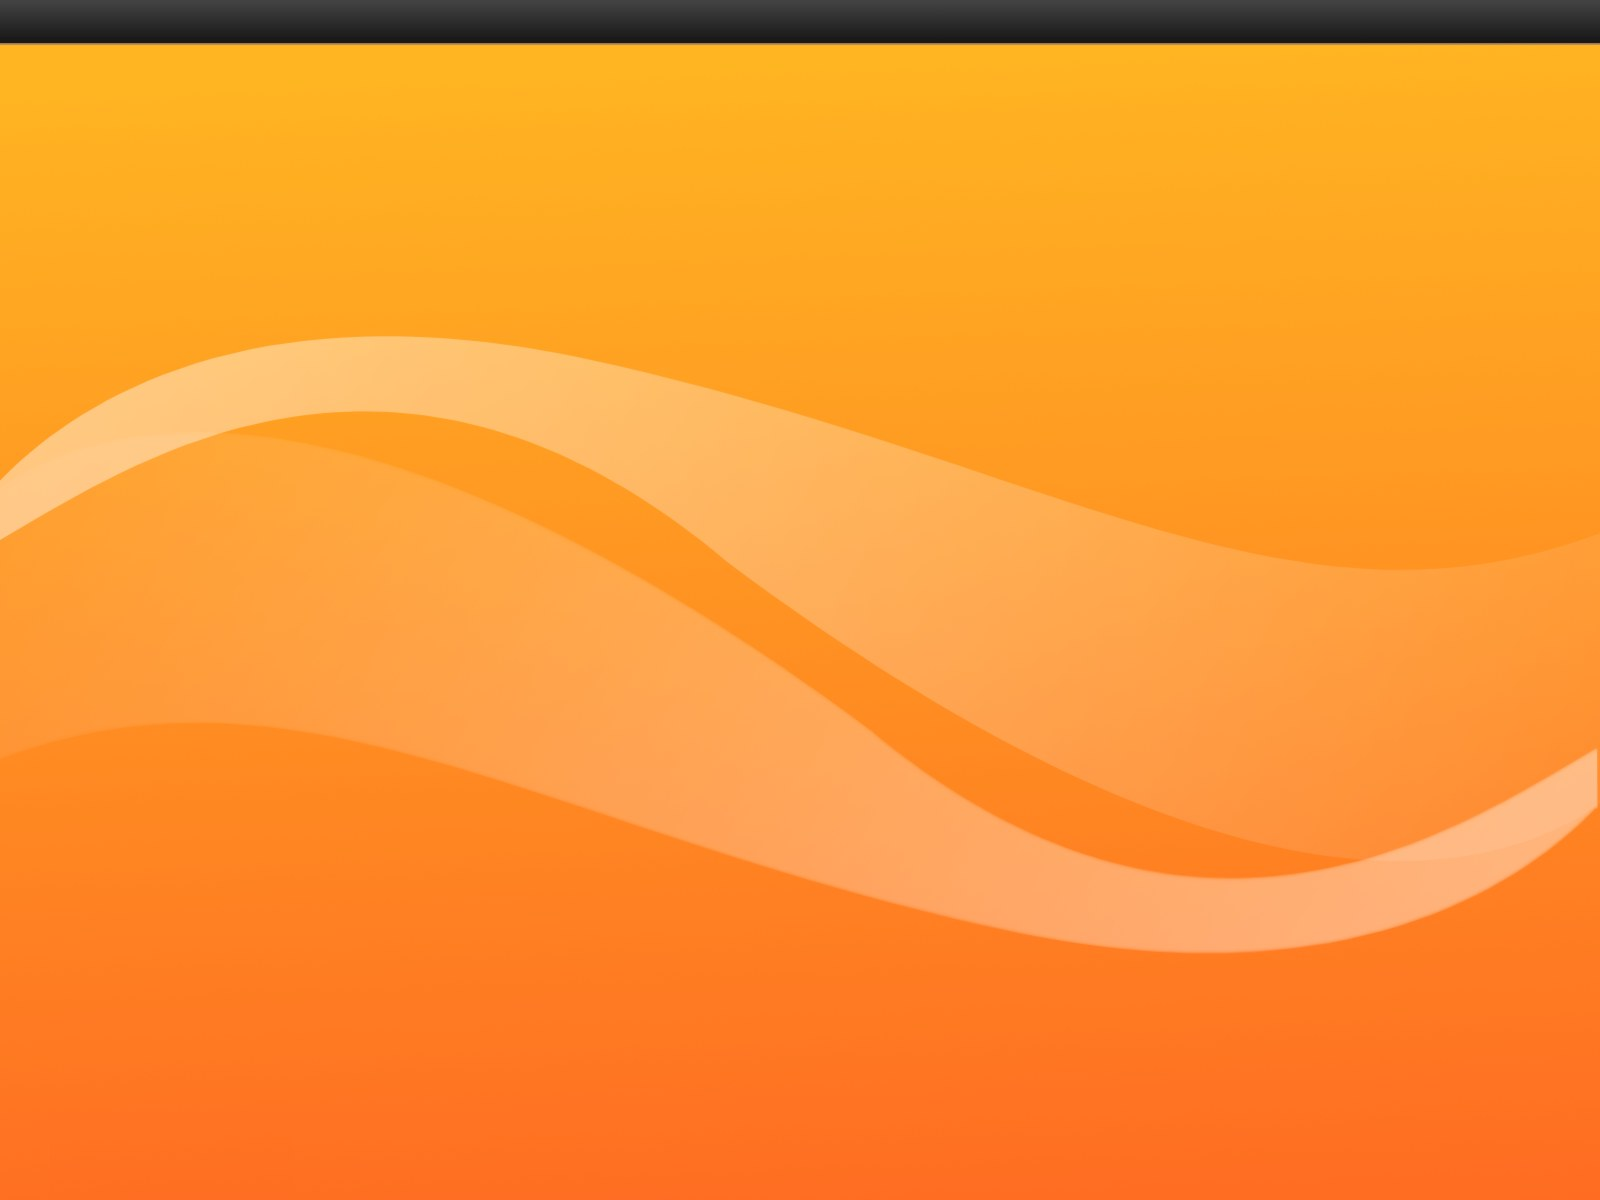
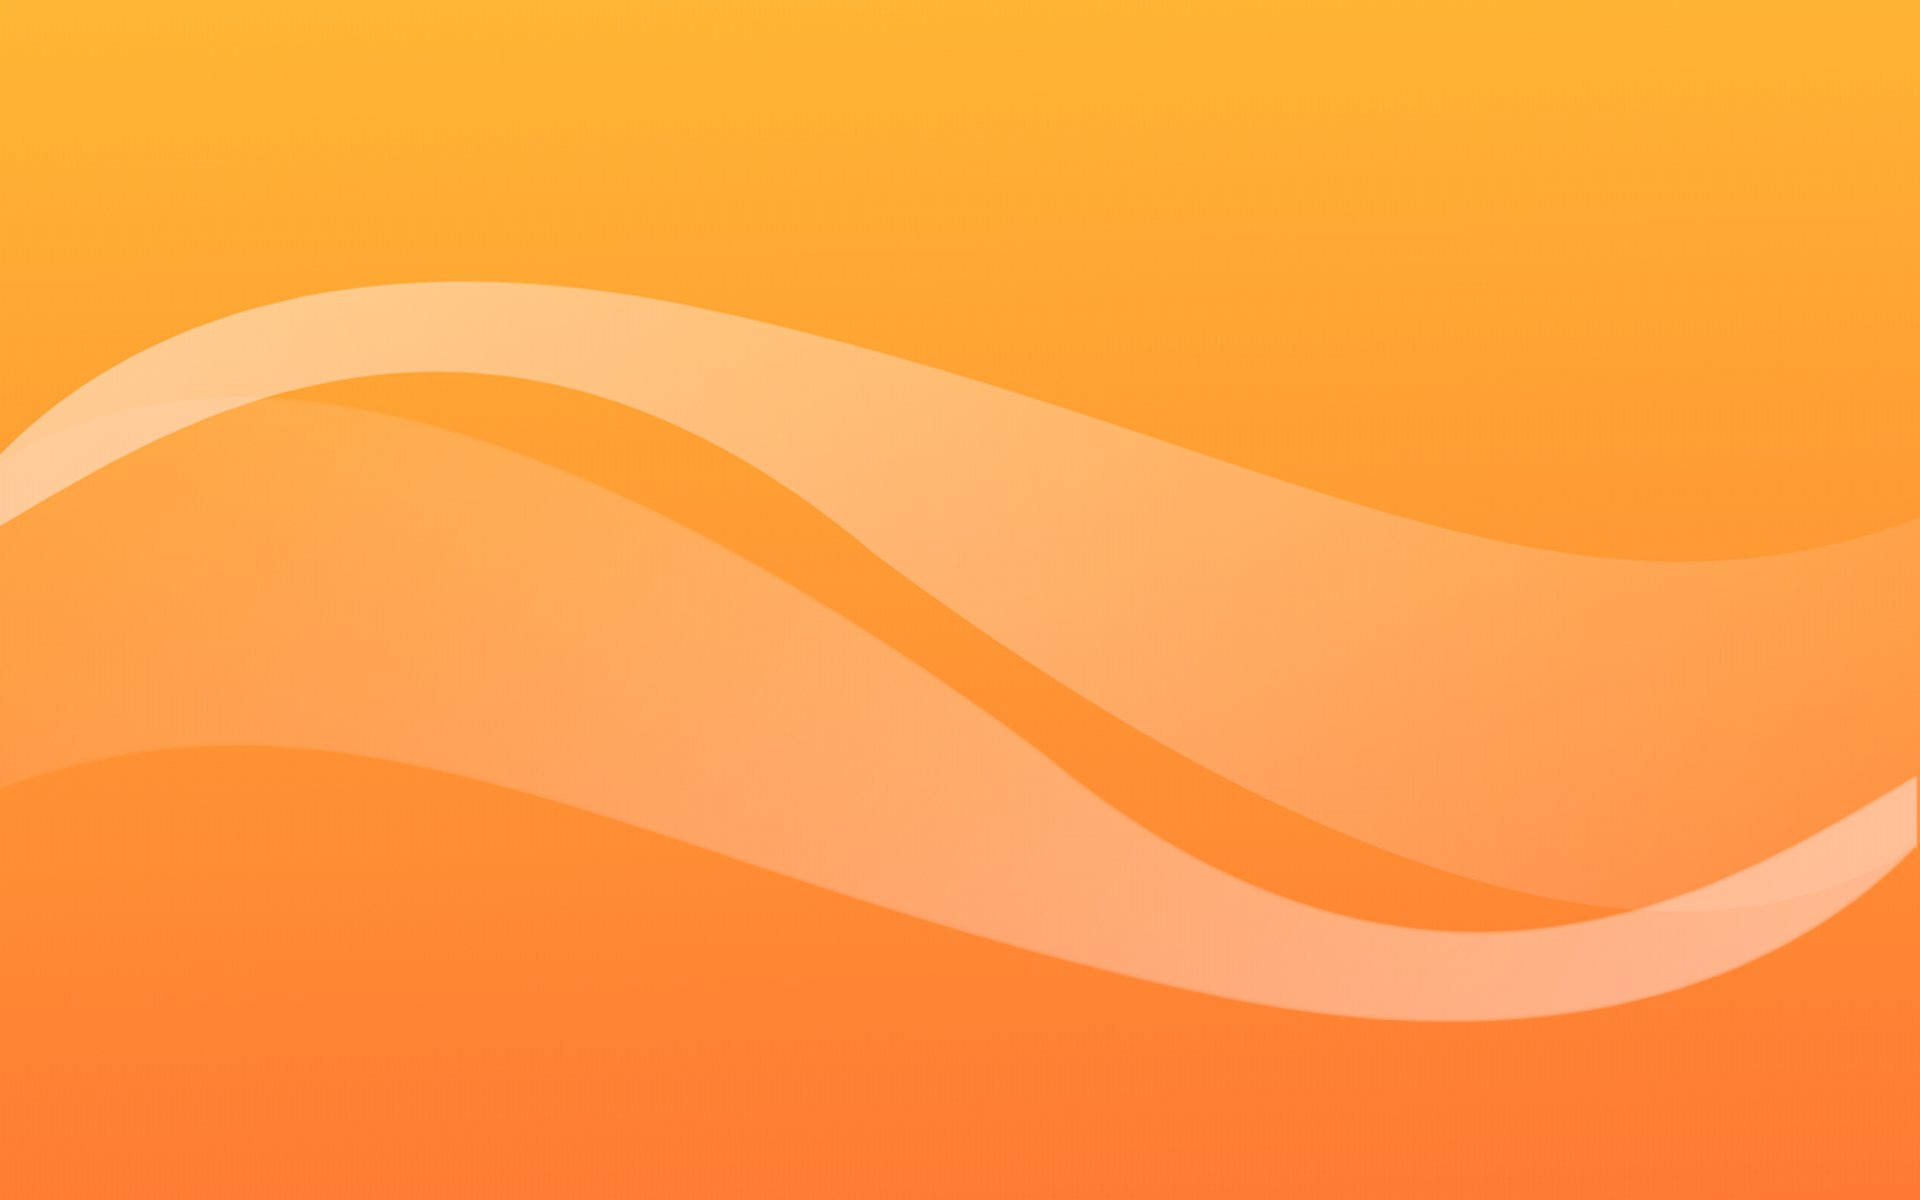
Fixed Session TopBar does not use bitmap anymore, gradient and shadow instead.

diff --git a/eclipse-project/vaadin-theme/session/styles.css b/eclipse-project/vaadin-theme/session/styles.css
@@ -2,7 +2,7 @@
 
 .a-session-view {
 	min-width: 1022px;
-	background: #FF7022 url('SessionBackground.jpg') repeat-x;
+	background: #FFB234 url('SessionBackground.jpg') fixed repeat;
 	z-index: 8;
 }
 
@@ -11,9 +11,18 @@
 	top: 0;
 	left: 0;
 	width: 100%;
-	height: 45px;
+	height: 43px;
 	z-index: 9;
-	background: #FF7022 url('SessionBackground.jpg') fixed repeat-x;
+	background-color: #303030;
+	background-image: gradient(linear,0 0,0 100%,from(#454545),to(#161616));
+	background-image: -webkit-gradient(linear,0 0,0 100%,from(#454545),to(#161616));
+	background-image: -moz-linear-gradient(#454545,#161616);
+	box-shadow: 0 1px 3px #555;
+	-webkit-box-shadow: 0 1px 3px #555;
+	-moz-box-shadow: 0 1px 3px #555;
+	zoom: 1;
+	filter: progid:DXImageTransform.Microsoft.gradient(startColorstr='#454545',endColorstr='#161616')
+			progid:DXImageTransform.Microsoft.Shadow(color='#505050', Direction=180, Strength=2);
 }
 
 .a-session-top-bar-content {
@@ -74,6 +83,9 @@ button.a-session-logo {
 	border-bottom-left-radius: 0px;
 	border-bottom-right-radius: 0px;
 	box-shadow: 1px 3px 3px dimgray;
+	-webkit-box-shadow: 1px 3px 3px dimgray;
+	-moz-box-shadow: 1px 3px 3px dimgray;
+	filter: progid:DXImageTransform.Microsoft.Shadow(color='#505050', Direction=135, Strength=2);
 }
 
 .a-session-main-content-bottom-filler {
@@ -107,10 +119,6 @@ textarea.a-invite-description {
 	font-size: 18px;
 	max-height: 300px;
 	max-width: 760px;
-}
-
-.a-invite-date {
-	_float: none;
 }
 
 .a-invite-send {

diff --git a/eclipse-project/vaadin-theme/styles-agitter.css b/eclipse-project/vaadin-theme/styles-agitter.css
@@ -13,7 +13,9 @@ button.a-default-nativebutton {
 	color: white;
 	font-size: 12px;
 	font-weight: bold;
+	font-family: Arial, Helvetica, Tahoma, Verdana, sans-serif;
 }
+
 
 button.a-default-logo-color, label.a-default-logo-color {
 	color: orange;
